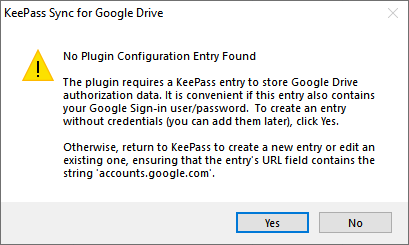
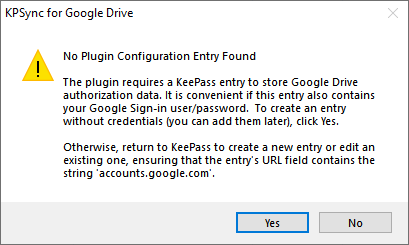
KPSync rebranding.

Changed region(s): [[0.0, 0.0286, 0.4108, 0.0857]]

diff --git a/docs/_includes/header.html b/docs/_includes/header.html
@@ -3,7 +3,7 @@
     <a class="navbar-brand" rel="author" href="{{ "/" | relative_url }}">
       <div class="d-flex flex-row">
         <div class="px-1">
-          <img src="{{ "/assets/img/gdsync-48.png" | relative_url }}" alt="KeePass Sync for Google Drive"></img>
+          <img src="{{ "/assets/img/gdsync-48.png" | relative_url }}" alt="KPSync for Google Drive"></img>
         </div>
         <div class="pl-1">
           {{ site.title | escape }}

diff --git a/docs/install/portable.md b/docs/install/portable.md
@@ -31,25 +31,25 @@ is valid and operating as desired.
 Please also review the general [KeePass instructions for installing plugins](https://keepass.info/help/v2/plugins.html).  
 
 Use the [Download .ZIP](/) button to obtain a file named
-KeePassSyncForDrive-x.x.x.zip, where 'x.x.x' is the release version.  For
-example "KeePassSyncForDrive-4.0.1.zip" or "KeePassSyncForDrive-4.0.1-beta.zip".
+KPSyncForDrive-x.x.x.zip, where 'x.x.x' is the release version.  For
+example "KPSyncForDrive-4.1.0.zip" or "KPSyncForDrive-4.0.6-beta.zip".
 
 1. Ensure KeePass is not running.
 2. If it does not already exist, create a folder under the KeePass
-installation folder named "Plugins" (for example, if KeePass.exe is
-installed in a folder named "K:\sw\KeePass", ensure the folder
-"K:\sw\KeePass\Plugins" exists).
+installation folder named  `Plugins` (for example, if KeePass.exe is
+installed in a folder named `K:\sw\KeePass`, ensure the folder
+`K:\sw\KeePass\Plugins` exists).
 3. Create a new, uniquely named folder under the Plugins folder
 (for example, if the Plugins folder of the previous step is 
-"K:\sw\KeePass\Plugins", and no folder named "SyncForDrive" exists in
-that folder, create the folder "K:\sw\KeePass\Plugins\SyncForDrive").
+`K:\sw\KeePass\Plugins`, and no folder named `KPSyncForDrive` exists in
+that folder, create the folder `K:\sw\KeePass\Plugins\KPSyncForDrive`).
 4. Extract the contents of the .zip file into the folder created in step 3.
 
 Verify that the plugin is installed by starting KeePass and examining the
 Tools menu:
 
 {:refdef: style="text-align: center;"}
-![KeePass Tools menu and KeePass Sync For Google Drive submenu](../assets/img/tools-menu.png)
+![KeePass Tools menu and KPSync For Google Drive submenu](../assets/img/tools-menu.png)
 {: refdef}
 
 To ensure you have the most current version of the plugin, click
@@ -104,7 +104,7 @@ plugin cache that must be cleared.  Note that this will prevent the
 plugin from operating in normal, non-portable mode, if KeePass is still
 installed that way.
 
-1. Remove the ".plgx" file added to the KeePass directory in Step 1 of the 
+1. Remove the ".plgx" file added to the KeePass folders in Step 1 of the 
 [normal installation](normal#installation-steps) instructions.
 2. In KeePass, clear the "Plugin Cache" (Tools &#x21D2; Plugins... &#x21D2;
 Clear button).

diff --git a/docs/install/normal.md b/docs/install/normal.md
@@ -19,8 +19,8 @@ Please review the general [KeePass instructions for installing plugins](https://
 before proceeding.  Also, ensure that all [system requirements](require) are met.
 
 Use the [Download .PLGX button](/) to obtain a file named
--x.x.x.plgx, where 'x.x.x' is the release version.  For
-example "KeePassSyncForDrive-4.0.1.plgx" or "KeePassSyncForDrive-4.0.1-beta.plgx".
+KPSyncForDrive-x.x.x.plgx, where 'x.x.x' is the release version.  For
+example `KPSyncForDrive-4.1.0.plgx` or `KPSyncForDrive-4.0.6-beta.plgx`.
 
 1. Copy the downloaded .plgx file to the KeePass installation directory, for
 example "C:\Program Files (x86)\KeePass Password Safe 2".  You probably need to
@@ -29,7 +29,7 @@ Otherwise Windows may prevent the copy with "Access Denied" or similar messages.
 2. Restart KeePass.  Please ensure that KeePass is fully shut down and not simply
 minimized to the task bar or [notification tray](https://docs.microsoft.com/en-us/windows/win32/shell/notification-area) before restarting.
 
-When KeePass starts, a short delay occurs to initialize new plugin(s)
+When KeePass starts, a short delay may occur to initialize new plugin(s)
 you have installed.  Verify that the plugin is installed by examining the
 KeePass Tools menu:
 

diff --git a/docs/notices/sharedsec.md b/docs/notices/sharedsec.md
@@ -7,7 +7,7 @@ date: Dec 30 2020
 ---
 
 This documents a potential security threat to your personal data.
-When KeePass Sync for Google Drive plugin is used to synchronize a 
+When KPSync for Google Drive plugin is used to synchronize a 
 KeePass database **shared with partially-trusted users**, Google Drive
 data files can be compromised.  
 
@@ -83,8 +83,8 @@ Do the following to revoke the plugin's authorizations:
 
 * Sign on to the Google Drive account used for synchronization.
 * Go to Drive settings, and select **Manage Apps**.
-* In the list of applications, find "KeePass Sync for Google Drive".
-* Select the option **Disconnect from Drive** for that entry.
+* In the list of applications, find "KeePass Sync for Google Drive" and/or "KPSync for Google Drive".
+* Select the option **Disconnect from Drive** for those entries.
 * Do not synchronize the database again until you determine it is
 safe to do so as outlined below.
 

diff --git a/docs/index.md b/docs/index.md
@@ -1,7 +1,22 @@
 ---
 layout: home
-title: KeePass Sync for Google Drive™
+title: KPSync for Google Drive™
 ---
+
+<div class="alert alert-secondary small" role="alert">
+    <div><em>Did you notice something different?</em></div>
+    The plugin is undergoing a name change.  "KeePass Sync for Google
+    Drive", as shown in the current release and
+    Google Sign-in consent screen, is changing to 
+    "KPSync For Google Drive."  With any luck
+    the change will take effect in this order:
+    <li> <strike>Website</strike> (done).</li>
+    <li> Google Sign-in.</li>
+    <li> New plugin release.
+    </li>
+    Apologies for any confusion; watch for the rebranded plugin
+    release, and the removal of this banner, coming soon.
+</div>
 
 <div class="alert alert-warning text-dark" role="alert">
     <div>
